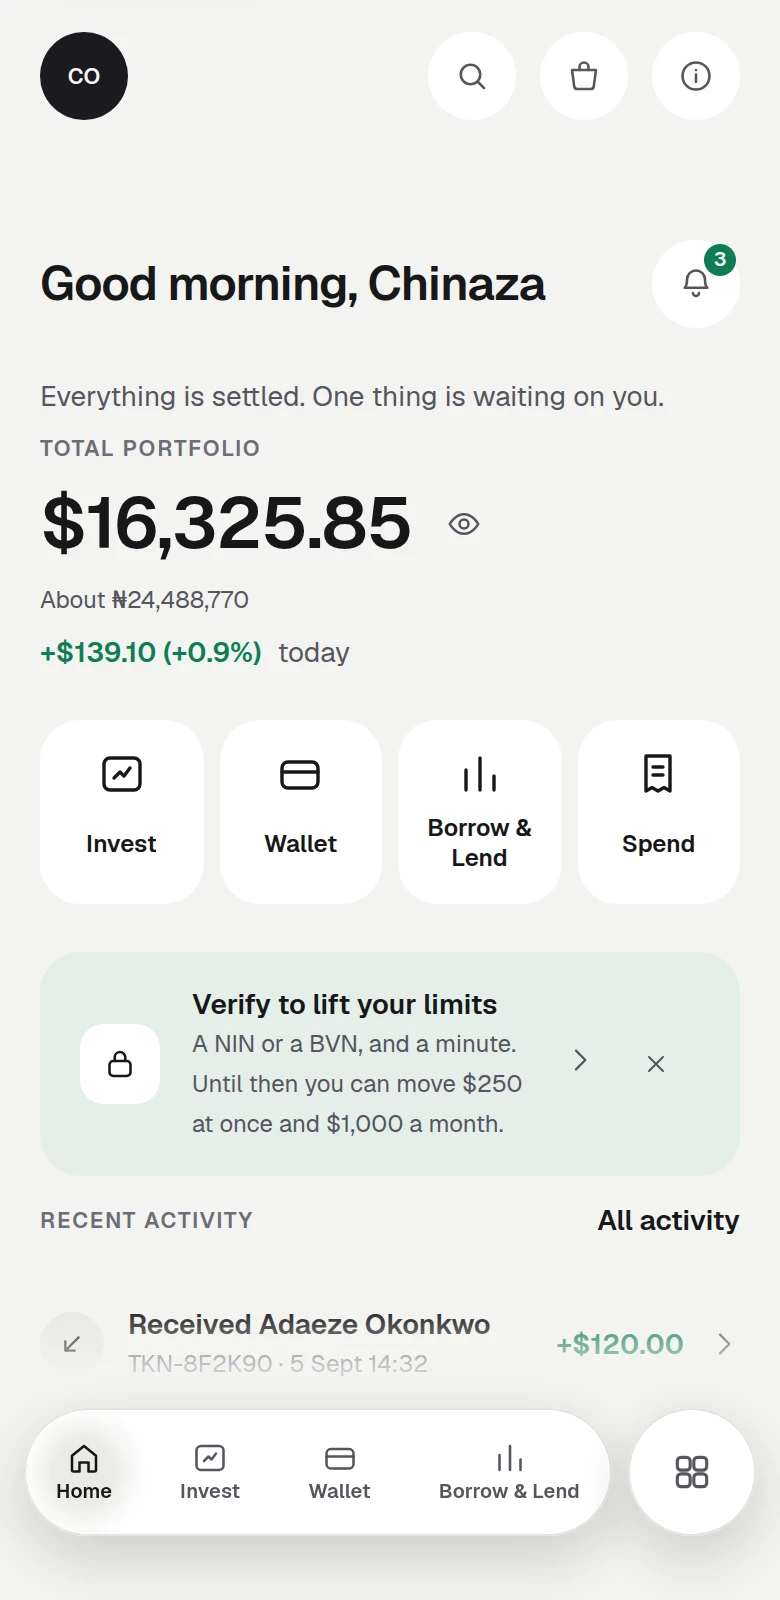
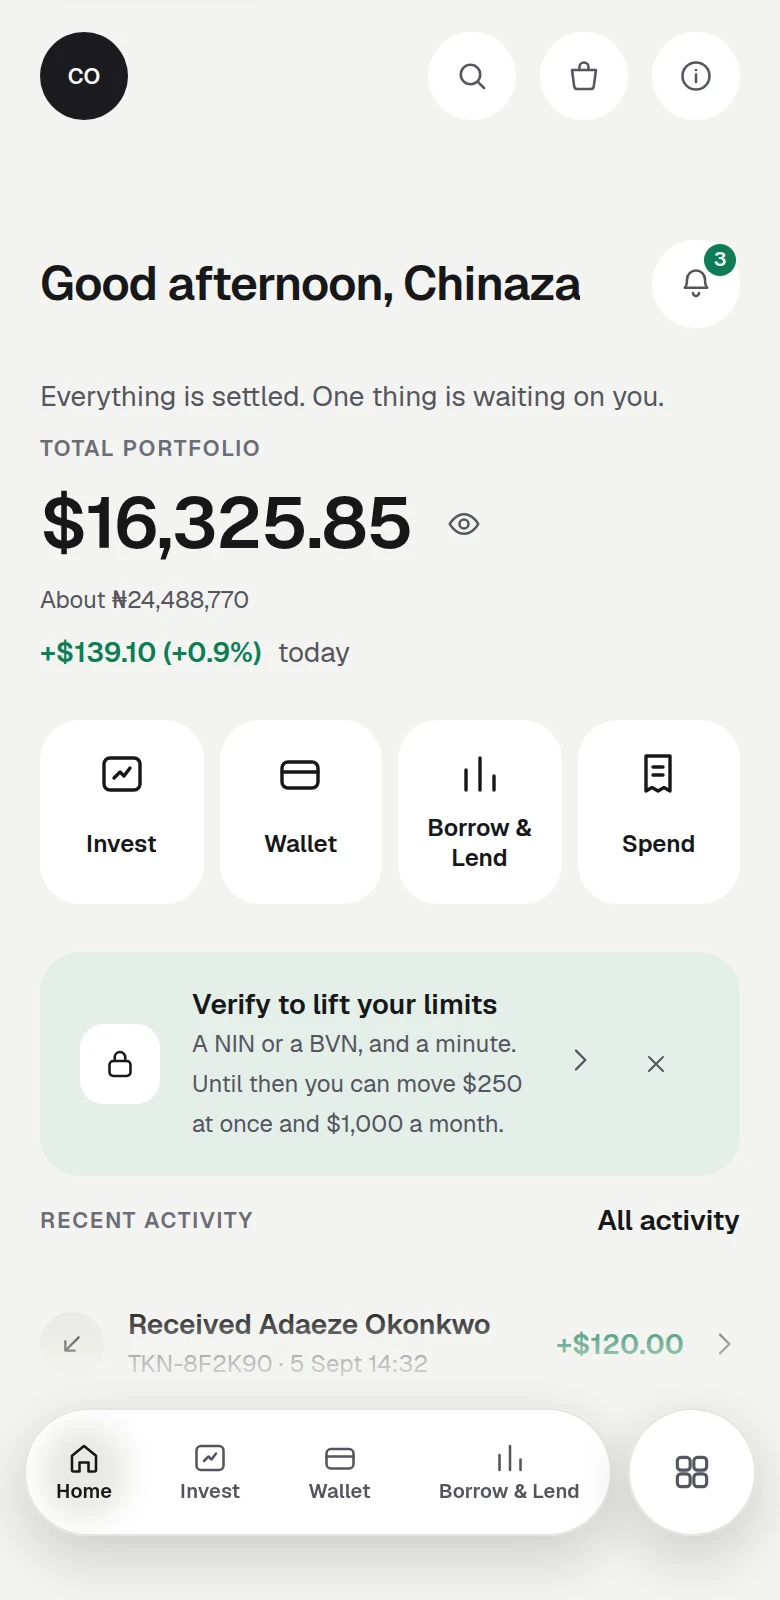
White under every section, and a screen on every product card
Two instructions.

WHITE. Every section ground is white now. The cream page goes, the peach
behind Gifting goes, the mint wash behind Money movement goes. What was a
full-width dark band behind Why Tokkenly is an inset dark slab sitting on
white, and the closing call to action is an inset mint slab rather than a
band running edge to edge. That is closer to how the reference works than
the tinted bands were: its dark sections are rounded cards on the ground,
not bands behind it. Colour is now carried entirely by blocks — the panels
behind the screens, the six product cards, the two slabs, the footer.

Two rules further down the file were still painting .band-mint-tint and
.band-brand, one line after the rule that had just set them transparent.
Same specificity, later wins, so Money movement kept its mint wash through
a pass that was supposed to have removed it. Both gone.

PICTURES. Three more screens captured — /spend for Pay bills,
/grow/lending for Earn, /grow/borrowing for Borrow. The two composers at
/grow/earn and /grow/borrow open a sheet over a dimmed wallet, so the
screens that show what you have lent and what you owe stand in for them,
which is the better picture anyway.

All six product cards now end in the screen they are describing, rising
out of the bottom edge of the card. That is the difference between a card
that describes a product and a card that shows one. Seventeen pictures on
the page, up from eleven, every one a photograph of the real app.
[…]

Changed region(s): [[0.2154, 0.1562, 0.7385, 0.1875]]

diff --git a/site/styles.css b/site/styles.css
@@ -55,8 +55,9 @@
      value — what moves here is the ratio it is used at, which is the axis the
      Figma page itself says is the variable one. #F6F8F6 keeps its job as the
      ground inside a light card. */
-  --canvas: #fdf6dc;
+  --canvas: #ffffff;
   --paper: #f6f8f6;
+  --cream: #fdf6dc;
   --surface: #ffffff;
   --sunken: #eff2f0;
   --deep: #053329;          /* surface/inverse — the dark bands */
@@ -235,7 +236,7 @@ h3 { font-size: clamp(19px, 1.5vw, 22px); line-height: 1.3; letter-spacing: -0.0
 /* ----------------------------------------------------------------- nav -- */
 .nav {
   position: fixed; inset: 0 0 auto 0; z-index: 50;
-  background: rgba(253, 246, 220, 0.72);
+  background: rgba(255, 255, 255, 0.72);
   backdrop-filter: saturate(180%) blur(16px);
   -webkit-backdrop-filter: saturate(180%) blur(16px);
   border-bottom: 1px solid transparent;
@@ -243,7 +244,7 @@ h3 { font-size: clamp(19px, 1.5vw, 22px); line-height: 1.3; letter-spacing: -0.0
 }
 .nav[data-scrolled='true'] {
   border-bottom-color: var(--line-soft);
-  background: rgba(253, 246, 220, 0.94);
+  background: rgba(255, 255, 255, 0.94);
 }
 .nav-in {
   max-width: var(--wrap); margin: 0 auto; padding-inline: var(--gutter);
@@ -344,9 +345,9 @@ h3 { font-size: clamp(19px, 1.5vw, 22px); line-height: 1.3; letter-spacing: -0.0
   content: ''; position: absolute; inset: -10% -20% auto -20%; height: 130%;
   z-index: -1; pointer-events: none;
   background:
-    radial-gradient(52% 44% at 66% 2%, rgba(43, 189, 155, 0.42), transparent 66%),
-    radial-gradient(44% 38% at 8% 16%, rgba(248, 81, 19, 0.12), transparent 70%),
-    radial-gradient(40% 36% at 92% 46%, rgba(213, 165, 120, 0.26), transparent 72%);
+    radial-gradient(54% 46% at 70% 0%, rgba(43, 189, 155, 0.24), transparent 68%),
+    radial-gradient(46% 40% at 6% 12%, rgba(249, 209, 0, 0.16), transparent 72%),
+    radial-gradient(42% 38% at 94% 48%, rgba(213, 165, 120, 0.16), transparent 74%);
 }
 /* The product's own motif: a field of dots, faded out as it falls. */
 .hero::after {
@@ -378,20 +379,26 @@ h1 .accent { color: var(--mint); }
 /* -------------------------------------------------------------- bands -- */
 .band { padding-block: var(--section-y); position: relative; }
 
-/* Gifting was on cream. Cream is the page now, so it takes peach — the
-   warmest of the remaining tints, and the section this palette's warmth
-   belongs to. */
-.band-cream { background: var(--tint-peach); }
-.band-mint-tint { background: var(--tint-mint); }
-.band-brand { background: var(--tint-brand); }
+/* Every section ground is white. Colour arrives as blocks sitting on it —
+   the panels behind the screens, the product cards, the two inset slabs —
+   rather than as a wash behind a whole section. */
+.band-cream, .band-mint-tint, .band-brand { background: transparent; }
 
 /* The two loud ones. */
-.band-deep { background: var(--deep); color: var(--on-deep); }
+.band-deep { background: transparent; color: var(--ink); }
+.band-deep > .wrap { max-width: calc(var(--wrap) + 2 * var(--gutter)); }
+.band-deep .statement {
+  background: var(--deep); color: var(--on-deep);
+  border-radius: var(--r-xl);
+  padding: clamp(56px, 7vw, 104px) clamp(28px, 5vw, 80px);
+  max-width: none;
+}
+.band-deep .statement > * { max-width: 62ch; margin-inline: auto; }
 .band-deep .lead, .band-deep p { color: var(--on-deep-muted); }
 .band-deep .eyebrow { color: var(--on-deep-muted); }
 .band-deep .eyebrow::before { background: var(--mint); }
 
-.band-mint { background: var(--mint); color: var(--deep); }
+.band-mint { background: transparent; color: var(--deep); }
 .band-mint .lead, .band-mint p { color: rgba(5, 51, 41, 0.76); }
 .band-mint .eyebrow { color: rgba(5, 51, 41, 0.72); }
 .band-mint .eyebrow::before { background: var(--deep); }
@@ -595,6 +602,22 @@ h1 .accent { color: var(--mint); }
 .ncard p:not(.num) { color: var(--on-deep-muted); font-size: 16px; }
 .ncard .link-arrow { margin-top: 8px; color: var(--mint); }
 
+/* Each card ends in the screen it is talking about, rising out of the bottom
+   edge. The reference does this with its dark cards, and it is the difference
+   between a card that describes a product and a card that shows one. */
+.ncard { overflow: hidden; padding-bottom: 0; }
+.ncard-shot {
+  margin: 10px 0 0;
+  height: clamp(150px, 17vw, 210px);
+  border-radius: 18px 18px 0 0;
+  overflow: hidden;
+  box-shadow: 0 -10px 34px rgba(0, 0, 0, 0.28);
+}
+.ncard-shot img {
+  width: 100%; height: 100%;
+  object-fit: cover; object-position: top center;
+}
+
 /* -------------------------------------------------------------- split -- */
 .split {
   display: grid; grid-template-columns: minmax(0, 1fr) minmax(0, 0.8fr);
@@ -670,23 +693,27 @@ details[open] .plus::after { transform: translateY(-50%) rotate(0deg); opacity: 
 .answer p { color: var(--muted); font-size: 16.5px; }
 
 /* ------------------------------------------------------------ closing -- */
-.closing {
-  margin-block: var(--section-y) 0;
-  padding-block: clamp(84px, 9vw, 136px);
-  background: var(--mint); color: var(--deep);
+.closing { padding-block: var(--section-y); background: transparent; }
+.closing > .wrap { max-width: calc(var(--wrap) + 2 * var(--gutter)); }
+.closing-in {
   position: relative; overflow: hidden;
+  background: var(--mint); color: var(--deep);
+  border-radius: var(--r-xl);
+  padding: clamp(64px, 8vw, 116px) clamp(28px, 5vw, 64px);
+  max-width: none;
 }
 /* The dot field again, in the ink, so the loudest block on the page still has
    the product's texture in it. */
-.closing::after {
+.closing-in::after {
   content: ''; position: absolute; inset: 0; pointer-events: none;
   background-image: radial-gradient(circle, rgba(5, 51, 41, 0.14) 1px, transparent 1px);
   background-size: 22px 22px;
   -webkit-mask-image: radial-gradient(70% 70% at 50% 50%, transparent 30%, #000);
   mask-image: radial-gradient(70% 70% at 50% 50%, transparent 30%, #000);
 }
-.closing-in { max-width: 780px; margin: 0 auto; text-align: center; }
-.closing .lead { margin-top: 22px; color: rgba(5, 51, 41, 0.76); }
+.closing-in { text-align: center; }
+.closing-in > * { position: relative; z-index: 1; }
+.closing .lead { margin-top: 22px; color: rgba(5, 51, 41, 0.78); }
 
 /* --------------------------------------------------------------- foot -- */
 .foot {

diff --git a/site/index.html b/site/index.html
@@ -292,6 +292,10 @@
                 Explore Receive
                 <svg viewBox="0 0 16 16" aria-hidden="true"><path d="M3 8h9M8.5 4.5L12 8l-3.5 3.5" /></svg>
               </a>
+              <figure class="ncard-shot">
+                <img src="./img/p-receive.webp" width="780" height="1600" loading="lazy"
+                  alt="Receiving money into Tokkenly on a phone." />
+              </figure>
             </article>
 
             <article class="ncard reveal" id="product-send">
@@ -308,6 +312,10 @@
                 Explore Send
                 <svg viewBox="0 0 16 16" aria-hidden="true"><path d="M3 8h9M8.5 4.5L12 8l-3.5 3.5" /></svg>
               </a>
+              <figure class="ncard-shot">
+                <img src="./img/p-send.webp" width="780" height="1600" loading="lazy"
+                  alt="Sending money to someone on Tokkenly, on a phone." />
+              </figure>
             </article>
 
             <article class="ncard reveal" id="product-pay-bills">
@@ -324,6 +332,10 @@
                 Explore Pay bills
                 <svg viewBox="0 0 16 16" aria-hidden="true"><path d="M3 8h9M8.5 4.5L12 8l-3.5 3.5" /></svg>
               </a>
+              <figure class="ncard-shot">
+                <img src="./img/p-bills.webp" width="780" height="1600" loading="lazy"
+                  alt="Paying airtime, data and electricity bills in Tokkenly." />
+              </figure>
             </article>
 
             <article class="ncard reveal" id="product-earn">
@@ -340,6 +352,10 @@
                 Explore Earn
                 <svg viewBox="0 0 16 16" aria-hidden="true"><path d="M3 8h9M8.5 4.5L12 8l-3.5 3.5" /></svg>
               </a>
+              <figure class="ncard-shot">
+                <img src="./img/p-earn.webp" width="780" height="1600" loading="lazy"
+                  alt="What you have lent and what it has paid, in Tokkenly." />
+              </figure>
             </article>
 
             <article class="ncard reveal" id="product-borrow">
@@ -356,6 +372,10 @@
                 Explore Borrow
                 <svg viewBox="0 0 16 16" aria-hidden="true"><path d="M3 8h9M8.5 4.5L12 8l-3.5 3.5" /></svg>
               </a>
+              <figure class="ncard-shot">
+                <img src="./img/p-borrow.webp" width="780" height="1600" loading="lazy"
+                  alt="What you owe and what backs it, in Tokkenly." />
+              </figure>
             </article>
 
             <article class="ncard reveal" id="product-convert">
@@ -372,6 +392,10 @@
                 Explore Convert
                 <svg viewBox="0 0 16 16" aria-hidden="true"><path d="M3 8h9M8.5 4.5L12 8l-3.5 3.5" /></svg>
               </a>
+              <figure class="ncard-shot">
+                <img src="./img/p-wallet.webp" width="780" height="1600" loading="lazy"
+                  alt="Dollars and the naira they are worth, side by side." />
+              </figure>
             </article>
           </div>
         </div>
